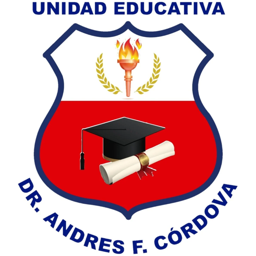
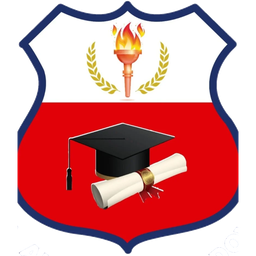
Escudo nítido en la franja superior y en el ícono de la pestaña
Claude-Session: https://claude.ai/code/session_01GPMYcpYVHYXB2cg5tVNeH7

diff --git a/src/app/Encabezado.tsx b/src/app/Encabezado.tsx
@@ -7,9 +7,9 @@ export default function Encabezado() {
     <header className="bg-marca text-white">
       <div className="mx-auto flex max-w-5xl items-center gap-3 px-4 py-2.5">
         <Link href="/" className="flex items-center gap-3">
-          <span className="flex h-11 w-11 items-center justify-center rounded-full bg-white p-1">
+          <span className="flex h-12 items-center justify-center rounded-md bg-white px-1.5 py-1">
             {/* eslint-disable-next-line @next/next/no-img-element */}
-            <img src="/logo-ue.png" alt="Logo" className="h-full w-full object-contain" />
+            <img src="/escudo-ue.png" alt="Escudo de la institución" className="h-full w-auto" />
           </span>
           <span className="leading-tight">
             <span className="block font-semibold">{NOMBRE_SITIO}</span>
